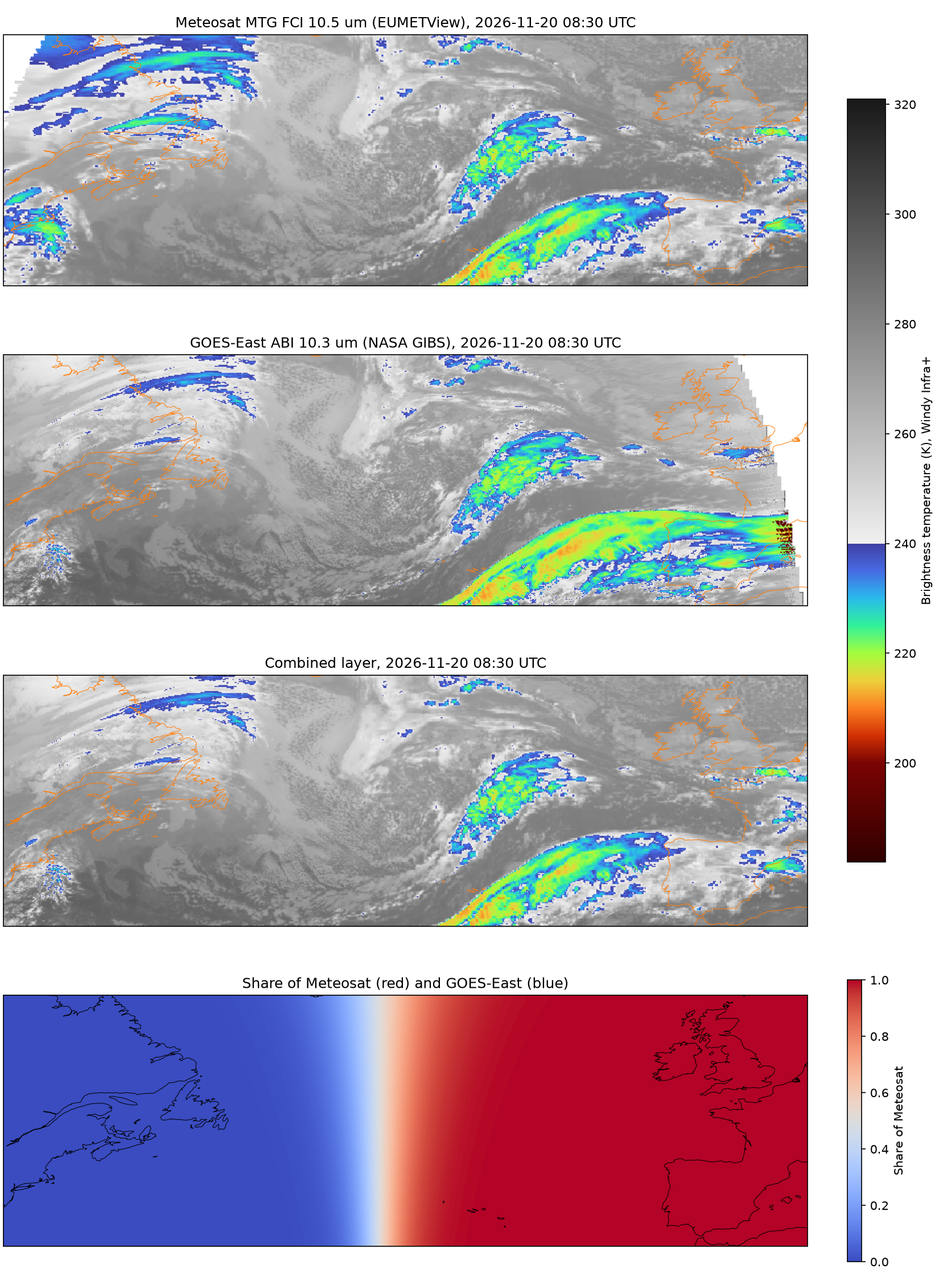
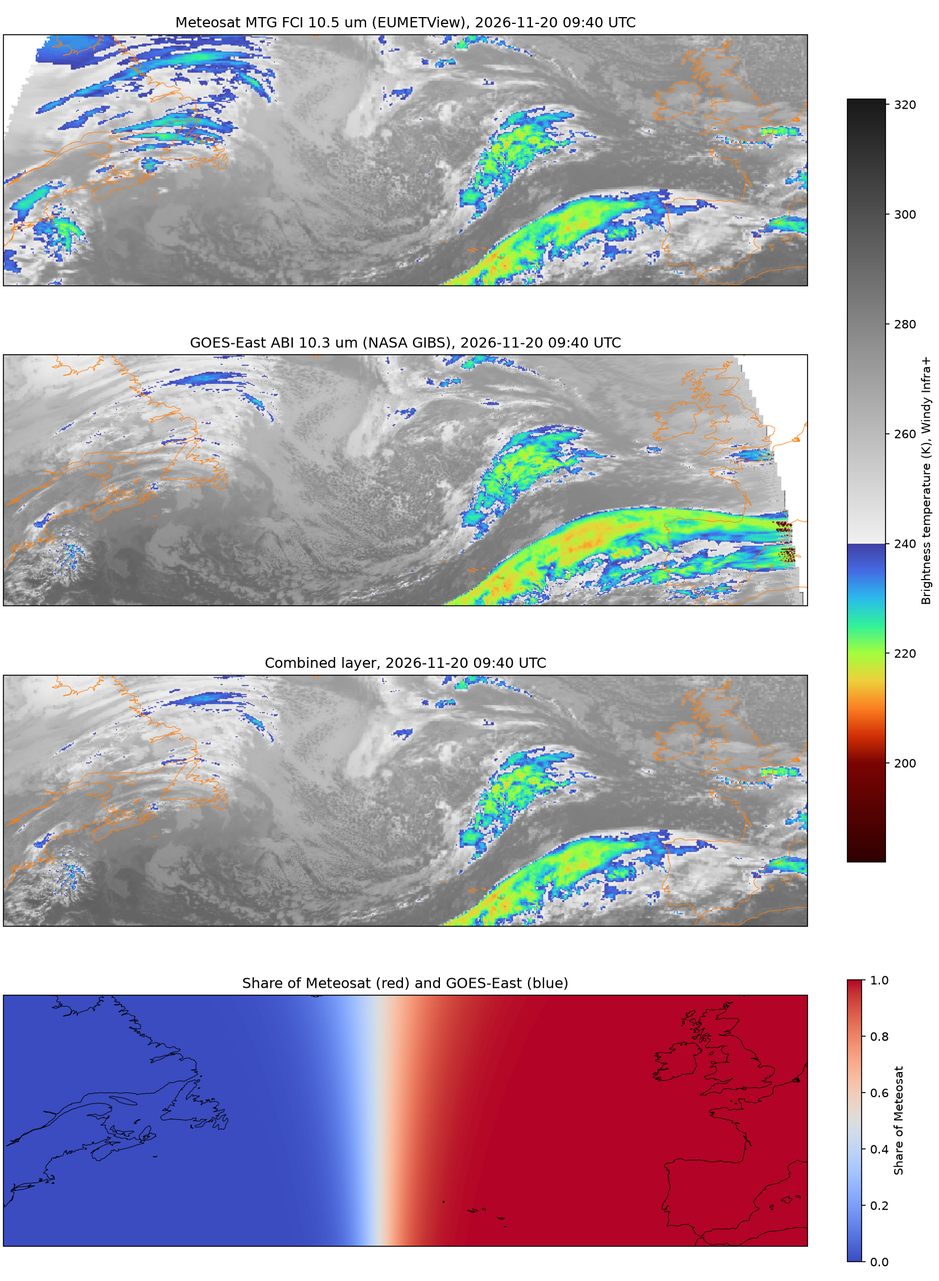
Add limb correction option

diff --git a/architeuthis/satellite.py b/architeuthis/satellite.py
@@ -43,7 +43,7 @@ from architeuthis.common import ArchiteuthisSpatialData, Datetime, _HOME, status
 from architeuthis.copernicus import CopernicusMarineData
 from architeuthis.credentials import require_credentials
 from architeuthis.toolbox import image_utils, wms_utils
-from architeuthis.toolbox.geo_utils import central_angle
+from architeuthis.toolbox.geo_utils import central_angle, geostationary_zenith
 from architeuthis.toolbox.image_utils import values_to_rgba
 from architeuthis.toolbox.windy_colormaps import get_satellite_cmap
 
@@ -659,6 +659,21 @@ SUBSATELLITE_LONGITUDES = {
 # band along the seam where their levels are matched
 MATCH_WEIGHT = 0.05
 
+# Limb cooling of the infrared: a satellite that sees a place obliquely
+# looks through more atmosphere, and at the sides of the clouds, so it
+# reads it colder, LIMB_COOLING * (zenith / 90)**LIMB_EXPONENT in K.
+# Fitted on 2026-11-19 and 20, 6 times by day and night, comparing
+# quantiles of Meteosat MTG FCI 10.5 um and GOES-East ABI 10.3 um in
+# boxes of 2 x 5 deg over 75 W - 5 E, 35 - 60 N at 0.1 deg: their
+# difference, up to 15 K, is 1.0 K + cooling of one - cooling of the
+# other, with one law for both (16.8 and 19.8 K fitted apart). Residual
+# 4.1 K rather than 9.2 K; 4.5 K rather than 9.7 K at 4 other times. A
+# dependence on the temperature fits a little better but corrects cold
+# tops the most, up to 15 K at 60 deg: their larger extent seen from the
+# side, not a cooling, so it is left out. Parallax is not corrected.
+LIMB_COOLING = 18.4  # K, at a zenith angle of 90 deg
+LIMB_EXPONENT = 4
+
 # Images requested at once from a map server
 DOWNLOAD_WORKERS = 4
 
@@ -710,6 +725,28 @@ def native_layers(
             raise ValueError(f"No {channel} layer at {choice}: choose among {['finest', 'coarsest'] + names}.")
         chosen[channel] = options[choice]
     return chosen
+
+
+def limb_cooling(zenith) -> np.ndarray:
+    """
+    Cooling of infrared brightness temperatures seen obliquely.
+
+    Empirical (`LIMB_COOLING`, `LIMB_EXPONENT`): about 2 K at a zenith
+    angle of 50 deg, 4 K at 60, 7 K at 70, 12 K at 80, 18 K at 90. Add
+    it to estimate what the satellite would read straight above.
+
+    Args:
+        zenith: Zenith angles of the satellite, in degrees
+            (`geo_utils.geostationary_zenith`).
+
+    Returns:
+        The cooling, in K.
+
+    Example:
+        bt + limb_cooling(geostationary_zenith(lat, lon, -75.2))
+    """
+    zenith = np.clip(np.asarray(zenith, dtype=float), 0.0, 90.0)
+    return LIMB_COOLING * (zenith / 90.0) ** LIMB_EXPONENT
 
 
 def imagery_channels(channels: Union[str, Sequence[str]]) -> list[str]:
@@ -998,6 +1035,9 @@ class WMSImageryData(SatelliteImagery):
             to guess it from the server layer names
             (`SUBSATELLITE_LONGITUDES`).
         style: Style of the server layers, "" for their default.
+        limb_correction: Add to the infrared the cooling of an oblique
+            view (`limb_cooling`), to estimate what the satellite would
+            read straight above; needs the longitude of the satellite.
         verbose: Whether to report progress.
     """
 
@@ -1018,6 +1058,7 @@ class WMSImageryData(SatelliteImagery):
         palettes: Optional[dict] = None,
         subsatellite_lon: Optional[float] = None,
         style: str = "",
+        limb_correction: bool = False,
         verbose: bool = True,
     ):
         super().__init__(name, start, end, min_lon, max_lon, min_lat, max_lat, resolution, channels, verbose)
@@ -1040,6 +1081,9 @@ class WMSImageryData(SatelliteImagery):
                 None,
             )
         self.subsatellite_lon = subsatellite_lon
+        if limb_correction and subsatellite_lon is None:
+            raise ValueError(f"{name}: the limb correction needs the longitude of the satellite (subsatellite_lon).")
+        self.limb_correction = limb_correction
         self.output_path = os.path.join(_HOME, "wms", urlparse(url).hostname or "server")
         self.workers = DOWNLOAD_WORKERS
 
@@ -1321,6 +1365,9 @@ class WMSImageryData(SatelliteImagery):
             values = np.empty(pixels.shape[:-1], dtype=np.float32)
             for step, frame in enumerate(pixels):
                 values[step] = image_utils.invert_palette(frame, *palette, secondary=self.secondary[channel])
+            if channel == "ir" and self.limb_correction:
+                lat, lon = np.meshgrid(self.data["latitude"].values, self.data["longitude"].values, indexing="ij")
+                values += limb_cooling(geostationary_zenith(lat, lon, self.subsatellite_lon)).astype(np.float32)
             self.data[IMAGERY_CHANNELS[channel]] = (("valid_time", "latitude", "longitude"), values)
 
 
@@ -1359,6 +1406,8 @@ class EUMETViewData(WMSImageryData):
             one per channel (`native_layers`).
         wms_layers: Server layer of each channel, overriding the
             native resolution, None for none.
+        limb_correction: Add to the infrared the cooling of an oblique
+            view (`limb_cooling`).
         verbose: Whether to report progress.
 
     Example:
@@ -1381,6 +1430,7 @@ class EUMETViewData(WMSImageryData):
         channels: Union[str, Sequence[str]] = "ir",
         native_resolution: Union[str, dict] = "finest",
         wms_layers: Optional[dict] = None,
+        limb_correction: bool = False,
         verbose: bool = True,
     ):
         wms_layers = native_layers(EUMETVIEW_LAYERS, native_resolution) | (wms_layers or {})
@@ -1390,7 +1440,9 @@ class EUMETViewData(WMSImageryData):
         }
         super().__init__(
             name, EUMETVIEW_URL, wms_layers, start, end, min_lon, max_lon, min_lat, max_lat,
-            resolution, time_step, channels, palettes, verbose=verbose,
+            resolution, time_step, channels, palettes,
+            limb_correction=limb_correction,
+            verbose=verbose,
         )
 
 
@@ -1436,6 +1488,8 @@ class GIBSData(WMSImageryData):
         wms_layers: Server layer of each channel, overriding the
             native resolution, None for none; GOES-West or Himawari
             for example.
+        limb_correction: Add to the infrared the cooling of an oblique
+            view (`limb_cooling`).
         verbose: Whether to report progress.
     """
 
@@ -1453,13 +1507,16 @@ class GIBSData(WMSImageryData):
         channels: Union[str, Sequence[str]] = "ir",
         native_resolution: Union[str, dict] = "finest",
         wms_layers: Optional[dict] = None,
+        limb_correction: bool = False,
         verbose: bool = True,
     ):
         wms_layers = native_layers(GIBS_LAYERS, native_resolution) | (wms_layers or {})
         palettes = {"visible": image_utils.linear_gray_palette(0.0, 1.0 / 255.0)}
         super().__init__(
             name, GIBS_URL, wms_layers, start, end, min_lon, max_lon, min_lat, max_lat,
-            resolution, time_step, channels, palettes, verbose=verbose,
+            resolution, time_step, channels, palettes,
+            limb_correction=limb_correction,
+            verbose=verbose,
         )
 
     def _time_extent(self, channel: str) -> list[str]:
@@ -1531,7 +1588,10 @@ class GeostationaryImagery(SatelliteImagery):
     at 0 deg) and GOES-East (GIBS, at 75.2 W) cover the North Atlantic
     from the Americas to Europe, every 10 min.
 
-    Infrared images agree as they are, in K. Visible ones do not: the
+    Infrared images agree in K, within about 1 K where both satellites
+    see at the same angle; each reads colder towards its limb, up to
+    15 K over the North Atlantic, which `limb_correction` makes up for.
+    Visible ones do not agree: the
     brightness of a scene depends on the angles of the sun and of the
     satellite, so each image of the other sources is put on the levels
     of the first one along the seam (`match`,
@@ -1572,6 +1632,8 @@ class GeostationaryImagery(SatelliteImagery):
             image misses a part; else the times any source has.
         match: Match the levels of the sources along the seam, None for
             the visible only.
+        limb_correction: Add to the infrared of the default sources the
+            cooling of an oblique view (`limb_cooling`).
         verbose: Whether to report progress.
 
     Example:
@@ -1599,6 +1661,7 @@ class GeostationaryImagery(SatelliteImagery):
         seam_width: float = 2.0,
         complete: bool = True,
         match: Optional[bool] = None,
+        limb_correction: bool = False,
         verbose: bool = True,
     ):
         super().__init__(name, start, end, min_lon, max_lon, min_lat, max_lat, resolution, channels, verbose)
@@ -1608,6 +1671,7 @@ class GeostationaryImagery(SatelliteImagery):
                 start=start, end=end, min_lon=min_lon, max_lon=max_lon, min_lat=min_lat,
                 max_lat=max_lat, resolution=resolution, time_step=time_step, channels=self.channels,
                 native_resolution=native_resolution,
+                limb_correction=limb_correction,
                 verbose=verbose,
             )
             sources = [EUMETViewData(f"{name}_eumetview", **common), GIBSData(f"{name}_gibs", **common)]

diff --git a/tests/domain/test_satellite.py b/tests/domain/test_satellite.py
@@ -29,11 +29,13 @@ from architeuthis.satellite import (
     GIBSData,
     IMAGERY_CHANNELS,
     IMAGERY_COLORMAPS,
+    LIMB_COOLING,
+    limb_cooling,
     native_layers,
     WMSImageryData,
 )
 from architeuthis.toolbox import image_utils, wms_utils
-from architeuthis.toolbox.geo_utils import central_angle
+from architeuthis.toolbox.geo_utils import central_angle, geostationary_zenith
 from architeuthis.toolbox.windy_colormaps import SATELLITE_QUANTITIES, SATELLITE_STOPS, get_satellite_cmap
 
 DOMAIN = dict(min_lon=-20.0, max_lon=0.0, min_lat=40.0, max_lat=52.0)
@@ -492,6 +494,48 @@ def test_central_angle_from_the_sub_satellite_point():
     assert central_angle(90.0, 30.0, 0.0, 0.0) == pytest.approx(90.0)
 
 
+def test_zenith_angle_of_a_geostationary_satellite():
+    assert geostationary_zenith(0.0, -75.2, -75.2) == pytest.approx(0.0)
+    # Larger than the central angle, 90 deg at the limb of the disk
+    assert geostationary_zenith(47.0, -56.0, -75.2) == pytest.approx(57.2, abs=0.1)
+    assert geostationary_zenith(0.0, 81.3, 0.0) == pytest.approx(90.0, abs=0.01)
+    assert geostationary_zenith(0.0, 120.0, 0.0) > 90.0
+
+
+def test_limb_cooling_grows_towards_the_limb():
+    cooling = limb_cooling([0.0, 50.0, 60.0, 70.0, 80.0, 90.0, 100.0])
+
+    assert cooling[0] == 0.0 and cooling[-2] == pytest.approx(LIMB_COOLING)
+    assert np.all(np.diff(cooling) >= 0.0)
+    assert cooling[-1] == cooling[-2]  # beyond the limb, not more
+    np.testing.assert_allclose(cooling[1:5], [1.75, 3.63, 6.73, 11.49], atol=0.01)
+
+
+def test_the_limb_correction_warms_the_infrared_by_the_zenith_angle(eumetview):
+    eumetview.load_data()
+    corrected = EUMETViewData(
+        "corrected", verbose=False, channels=["ir", "visible"], limb_correction=True, **IMAGERY_PERIOD, **IMAGERY_DOMAIN,
+    )
+    corrected.output_path = eumetview.output_path
+    corrected.load_data()
+
+    times = corrected.data["valid_time"]
+    lat, lon = np.meshgrid(corrected.data["latitude"], corrected.data["longitude"], indexing="ij")
+    cooling = limb_cooling(geostationary_zenith(lat, lon, 0.0))
+    assert cooling.min() > 1.0  # 40-45 N
+    np.testing.assert_allclose(
+        corrected.data["bt"].values, eumetview.data["bt"].sel(valid_time=times).values + cooling, rtol=1e-6,
+    )
+    # The visible is left as it is
+    np.testing.assert_allclose(corrected.data["brightness"].values, 51 / 255, rtol=1e-6)
+
+
+def test_the_limb_correction_needs_the_satellite():
+    with pytest.raises(ValueError, match="subsatellite_lon"):
+        WMSImageryData("server", "https://server", {"ir": "infrared"}, limb_correction=True)
+    assert WMSImageryData("server", "https://server", {"ir": "infrared"}, subsatellite_lon=0.0, limb_correction=True).limb_correction
+
+
 # ------------------------------------------------------------------------------
 # Geostationary imagery: sources
 # ------------------------------------------------------------------------------
@@ -841,6 +885,9 @@ def test_the_composite_raises_when_every_source_fails():
 
 def test_the_default_sources_are_eumetview_and_gibs_over_the_same_domain_and_channels():
     clouds = GeostationaryImagery("clouds", time_step="1h", channels=["ir", "visible"], **IMAGERY_PERIOD, **COMPOSITE_DOMAIN)
+    assert [source.limb_correction for source in clouds.sources] == [False, False]
+    corrected = GeostationaryImagery("clouds", limb_correction=True, **IMAGERY_PERIOD, **COMPOSITE_DOMAIN)
+    assert [source.limb_correction for source in corrected.sources] == [True, True]
 
     assert [type(source) for source in clouds.sources] == [EUMETViewData, GIBSData]
     assert clouds.channels == ["ir", "visible"]

diff --git a/examples/cloud_imagery.py b/examples/cloud_imagery.py
@@ -81,6 +81,10 @@ resolution = 0.1  # deg, about 10 km: 800 x 250 pixels here, under 1 s an image
 native_resolution = "finest"  # server layers: MTG FCI on EUMETView (1 km IR, 0.5 km visible)
 # native_resolution = "coarsest"  # MSG SEVIRI on EUMETView (3 km, every 15 min); GIBS has one layer per channel
 time_step = None  # every image; "30min" or "1h" for fewer
+# Each satellite reads colder towards the limb of its disk, up to 15 K here:
+# the infrared corrected as if seen from straight above, so both agree
+limb_correction = True
+# limb_correction = False  # the brightness temperatures as measured
 clear_sky = 275.0  # K: warmer pixels fade out of the cloud layer
 
 # A zoom on Saint-Pierre-et-Miquelon and the south of Newfoundland, at the
@@ -94,7 +98,7 @@ zoom_scale = 4  # each pixel drawn as 4 x 4 interpolated ones
 
 clouds = GeostationaryImagery(
     "clouds", start, end, resolution=resolution, time_step=time_step, channels="ir",
-    native_resolution=native_resolution, **domain,
+    native_resolution=native_resolution, limb_correction=limb_correction, **domain,
 )
 # clouds = GeostationaryImagery("clouds", start, end, resolution=resolution, complete=False, **domain)  # every time of either satellite
 clouds.load_data()
@@ -120,7 +124,7 @@ print(
 
 daylight = GeostationaryImagery(
     "daylight", visible_start, visible_end, resolution=resolution, time_step=time_step,
-    channels=["ir", "visible"], native_resolution=native_resolution, **domain,
+    channels=["ir", "visible"], native_resolution=native_resolution, limb_correction=limb_correction, **domain,
 )
 # daylight = GeostationaryImagery("daylight", visible_start, visible_end, channels="visible", **domain)  # the visible only
 daylight.load_data()
@@ -194,7 +198,8 @@ fig.savefig("cloud_imagery_colormaps.png", dpi=150)
 
 zoom = GeostationaryImagery(
     "zoom", visible_start, visible_end, resolution=zoom_resolution, time_step="1h",
-    channels=["ir", "visible"], native_resolution=native_resolution, **zoom_domain,
+    channels=["ir", "visible"], native_resolution=native_resolution, limb_correction=limb_correction,
+    **zoom_domain,
 )
 zoom.load_data()
 

diff --git a/architeuthis/toolbox/geo_utils.py b/architeuthis/toolbox/geo_utils.py
@@ -594,6 +594,33 @@ def central_angle(lat, lon, lat0, lon0):
     return np.degrees(np.arccos(np.clip(cosine, -1.0, 1.0)))
 
 
+# Radius of the Earth over that of the geostationary orbit
+GEOSTATIONARY_RATIO = 6378.137 / 42164.0
+
+
+def geostationary_zenith(lat, lon, subsatellite_lon):
+    """
+    Zenith angle of a geostationary satellite seen from positions.
+
+    Numeric. 0 straight above, 90 on the horizon, the limb of its disk
+    (81 deg from its sub-satellite point); larger than `central_angle`,
+    by up to 9 deg.
+
+    Args:
+        lat: Latitudes, in degrees.
+        lon: Longitudes, in degrees.
+        subsatellite_lon: Longitude of the satellite, in degrees.
+
+    Returns:
+        The angles, in degrees, above 90 where it cannot be seen.
+
+    Example:
+        geostationary_zenith(47.0, -56.0, -75.2)  # about 57 deg
+    """
+    angle = np.radians(central_angle(lat, lon, 0.0, subsatellite_lon))
+    return np.degrees(np.arctan2(np.sin(angle), np.cos(angle) - GEOSTATIONARY_RATIO))
+
+
 def lonlat_to_web_mercator(lon, lat):
     """
     Convert lon/lat in degrees to Web Mercator (EPSG:3857).

diff --git a/docs/user_guide.md b/docs/user_guide.md
@@ -57,7 +57,7 @@ for key in ("bhp", "max_bhp", "sails_contribution"):
 | `forecast.CopernicusForecast` | Currents and other products of Copernicus Marine. Needs an account, `CMEMS_USER` and `CMEMS_PWD`. |
 | `forecast.CDSForecast` | ERA5 reanalysis. Needs an account, `CDS_API_KEY`. |
 | `satellite.ASCATData` | ASCAT winds over a period and a box, to validate forecasts: from EUMETSAT (`EUMDAC_KEY`, `EUMDAC_SECRET`), the latest swaths, else from Copernicus Marine (`CMEMS_USER`, `CMEMS_PWD`), daily gridded swaths about a day behind. `sources="cmems"` uses Copernicus Marine only, and `source` tells which one was used. The variables are the same either way: `lat`, `lon`, `time`, `valid_time`, `wind_speed` in m/s and `wind_dir`, where the wind goes to, in degrees. `EUMETSATASCATData` and `CopernicusASCATData` are the two sources. |
-| `satellite.GeostationaryImagery` | Cloud images over a box and a period, every 10 min, as one continuous layer from Meteosat (`EUMETViewData`) and GOES-East (`GIBSData`). No account. The channels are chosen as the variables of a forecast, `channels="ir"` (default) or a list of `"ir"` (infrared, day and night) and `"visible"` (by day). `data` then holds `bt`, the brightness temperature in K, for `"ir"`, and `brightness`, from 0 to 1, for `"visible"`, the levels of GOES matched to those of Meteosat along the seam; on `valid_time`, `latitude`, `longitude`, at `resolution` degrees. `resolution` sets the size of the requested images, hence the download time: 0.05 over the North Atlantic (1600 x 500 pixels) takes about a second an image, four at a time; 0.02 shows all the detail of the infrared and 0.01 of the visible (`DETAIL_RESOLUTIONS`), best on a small domain. `native_resolution` chooses the server layer where a server has several: `"finest"` (default), `"coarsest"`, a resolution such as `"3km"` (MSG SEVIRI rather than MTG FCI on EUMETView), or one per channel, `{"ir": "3km"}`. How they look is chosen when drawing: `image(time, "ir", colormap="blue")` draws a loaded channel as an RGBA array, north up, with a colour scale of Windy, `"infra"` (Infra+, the default of `"ir"`) or `"blue"` (Blue, clear sky transparent) for `"ir"` and `"visible"` for `"visible"`; `transparent_above=275` fades out the clear sky of any scale. `image(time, box=(-60, -52, 44, 49), scale=4)` draws a part of the domain with each pixel interpolated into 4 x 4 (`order=1` bilinear, the default, `order=3` bicubic), the values interpolated before being coloured, and `extent(box)` gives where it lies, `[west, east, south, north]` for `imshow`. `toolbox.windy_colormaps.get_satellite_cmap(colormap)` gives the colormap and norm for a colour bar, and `bounds` the corners for a map overlay. `complete=False` keeps the times of any satellite rather than those of all. `EUMETViewData` and `GIBSData` take the same `channels` for one satellite each; `GIBSData(wms_layers={"ir": ...})` takes GOES-West or Himawari. Files are managed as those of the forecasts: nothing on disk is downloaded again. Each image is a PNG in `~/data/wms/<host>/<layer>/<box>/`, opened rather than downloaded when it is there; the times a server listed for a layer, and the periods they cover, are kept in `<layer>/times.json`, so that loading a period again asks the server nothing (💾 statuses). An image still empty `satellite.EMPTY_FINAL_AFTER` (3 h) after its time is recorded there and not asked again, whereas a more recent one may not be produced yet and is asked again by a later run. If a server cannot be reached, the images of the period on disk are used, with a ⚠ status. The GIBS colormaps are kept in `<host>/colormaps/`. |
+| `satellite.GeostationaryImagery` | Cloud images over a box and a period, every 10 min, as one continuous layer from Meteosat (`EUMETViewData`) and GOES-East (`GIBSData`). No account. The channels are chosen as the variables of a forecast, `channels="ir"` (default) or a list of `"ir"` (infrared, day and night) and `"visible"` (by day). `data` then holds `bt`, the brightness temperature in K, for `"ir"`, and `brightness`, from 0 to 1, for `"visible"`, the levels of GOES matched to those of Meteosat along the seam; on `valid_time`, `latitude`, `longitude`, at `resolution` degrees. `resolution` sets the size of the requested images, hence the download time: 0.05 over the North Atlantic (1600 x 500 pixels) takes about a second an image, four at a time; 0.02 shows all the detail of the infrared and 0.01 of the visible (`DETAIL_RESOLUTIONS`), best on a small domain. `native_resolution` chooses the server layer where a server has several: `"finest"` (default), `"coarsest"`, a resolution such as `"3km"` (MSG SEVIRI rather than MTG FCI on EUMETView), or one per channel, `{"ir": "3km"}`. How they look is chosen when drawing: `image(time, "ir", colormap="blue")` draws a loaded channel as an RGBA array, north up, with a colour scale of Windy, `"infra"` (Infra+, the default of `"ir"`) or `"blue"` (Blue, clear sky transparent) for `"ir"` and `"visible"` for `"visible"`; `transparent_above=275` fades out the clear sky of any scale. `image(time, box=(-60, -52, 44, 49), scale=4)` draws a part of the domain with each pixel interpolated into 4 x 4 (`order=1` bilinear, the default, `order=3` bicubic), the values interpolated before being coloured, and `extent(box)` gives where it lies, `[west, east, south, north]` for `imshow`. `toolbox.windy_colormaps.get_satellite_cmap(colormap)` gives the colormap and norm for a colour bar, and `bounds` the corners for a map overlay. `complete=False` keeps the times of any satellite rather than those of all. `EUMETViewData` and `GIBSData` take the same `channels` for one satellite each; `GIBSData(wms_layers={"ir": ...})` takes GOES-West or Himawari. Each satellite reads the infrared colder towards the limb of its disk, by about 2 K at a zenith angle of 50 deg, 7 K at 70 and 12 K at 80: `limb_correction=True` adds `satellite.limb_cooling(zenith)` to estimate what it would read straight above, so that Meteosat and GOES-East agree within about 3 K across the North Atlantic (off by default; the combined layer takes each pixel from the more direct view anyway). Files are managed as those of the forecasts: nothing on disk is downloaded again. Each image is a PNG in `~/data/wms/<host>/<layer>/<box>/`, opened rather than downloaded when it is there; the times a server listed for a layer, and the periods they cover, are kept in `<layer>/times.json`, so that loading a period again asks the server nothing (💾 statuses). An image still empty `satellite.EMPTY_FINAL_AFTER` (3 h) after its time is recorded there and not asked again, whereas a more recent one may not be produced yet and is asked again by a later run. If a server cannot be reached, the images of the period on disk are used, with a ⚠ status. The GIBS colormaps are kept in `<host>/colormaps/`. |
 | `forecast.Topography` | The signed distance to land and to your exclusion zones. It needs only its box, and `exclusion_zones` if you have some. |
 | `vessel.Vessel` | A vessel, from its polar file, from functions (see [Polars as functions](#polars-as-functions)) or from constants. The routing only needs its consumption (see [Consumption](#consumption)). `label` comes from the file name by default, `eff45` for `..._eff45.nc`, or is the name without a file. |
 

diff --git a/CLAUDE.md b/CLAUDE.md
@@ -200,7 +200,7 @@ Speeds in knots, distances in nautical miles, angles in degrees, time in float e
 - `EUMDAC_KEY` and `EUMDAC_SECRET` hold the EUMETSAT Consumer Key and Secret, not a login. When neither CMEMS credential is found, `CopernicusForecast` passes `None` to the toolbox only if the `copernicusmarine login` file exists (`COPERNICUSMARINE_CREDENTIALS_DIRECTORY` or `~/.copernicusmarine/`), else it raises; likewise `CDSForecast` falls back to `cdsapi.Client()` only if `CDSAPI_RC` or `~/.cdsapirc` exists. Architeuthis never writes `~/.cdsapirc` any more. Without a credential store (Linux server), `keyring` errors are treated as "not found", so environment variables still work.
 - `copernicusmarine` takes naive dates as **local** times, not UTC. `CopernicusSatelliteData` passes UTC-aware timestamps; `CopernicusForecast` passes `date` and `end` as given. Its `"strict-inside"` selection refuses a period past the end of a dataset, so satellite data uses `"inside"`, which clips. Importing `copernicusmarine` takes about 3 s, which is why `architeuthis/copernicus.py` exists rather than this code living in `common.py`; mock it with `patch("architeuthis.copernicus.copernicusmarine.subset")`.
 - `ASCATData` is not an `EUMETSATData`: it builds an `EUMETSATASCATData` or a `CopernicusASCATData` per source in `load_data` and keeps the data of the first that loads, catching any exception of the others. ASCAT `wind_dir` is where the wind goes, unlike the meteorological convention of the models.
-- Imagery servers send rendered PNGs, which `WMSImageryData` turns back into brightness temperatures (`bt`, K) with the palette of the layer. EUMETView's grey ramp is calibrated in `EUMETVIEW_CALIBRATIONS`, fitted once against FCI L1c data (SEVIRI against that FCI); another layer needs its own fit. The GIBS IR colormap draws 195-203 K in the greys of 261-328 K: `GIBSData.secondary["ir"]` marks those entries and `image_utils.invert_palette` reads such pixels from their neighbours (`tolerance` 3, a wider one makes most mid-grey sea ambiguous and turns it cold). A grey nearer a secondary entry than any main one is also weighed by its neighbours, in a window 4 times wider when the first holds no unambiguous pixel: GIBS's grey 155 is exactly a 196.5 K entry between 270.8 K and 270.3 K, and read alone it drew cold streaks across warm sea. `uniform_filter` gives about 1e-16 rather than 0 for an empty window, so test counts against half a pixel. Past about 70 deg from GOES-East (east of 5 W), GIBS reads cold; `GeostationaryImagery` gives Meteosat all the weight there.
+- Imagery servers send rendered PNGs, which `WMSImageryData` turns back into brightness temperatures (`bt`, K) with the palette of the layer. EUMETView's grey ramp is calibrated in `EUMETVIEW_CALIBRATIONS`, fitted once against FCI L1c data (SEVIRI against that FCI); another layer needs its own fit. The GIBS IR colormap draws 195-203 K in the greys of 261-328 K: `GIBSData.secondary["ir"]` marks those entries and `image_utils.invert_palette` reads such pixels from their neighbours (`tolerance` 3, a wider one makes most mid-grey sea ambiguous and turns it cold). A grey nearer a secondary entry than any main one is also weighed by its neighbours, in a window 4 times wider when the first holds no unambiguous pixel: GIBS's grey 155 is exactly a 196.5 K entry between 270.8 K and 270.3 K, and read alone it drew cold streaks across warm sea. `uniform_filter` gives about 1e-16 rather than 0 for an empty window, so test counts against half a pixel. Past about 70 deg from GOES-East (east of 5 W), GIBS reads cold; `GeostationaryImagery` gives Meteosat all the weight there. Both palettes are right: where both satellites see at the same zenith angle they agree within 1-2 K at any temperature (GOES 10.3 um about 1 K warmer). The east-west differences, up to 15 K, are limb cooling, symmetric for both: `limb_correction` adds `limb_cooling`, fitted on their overlap (`LIMB_COOLING`), and leaves parallax and the visible alone. A temperature-dependent law fits better but over-corrects cold tops (their side seen near the limb), and about 12 % of GIBS pixels blend colours off its palette (interpolated rendering, even in its native tiles): reading them between two palette entries was tried and was no better.
 - The WMS capabilities of GIBS may lag by an hour or more, depending on the server answering: `GIBSData` takes its times from DescribeDomains (`wms_utils.gibs_time_domain`), falling back on the capabilities. An entirely transparent image (not produced yet) is left out with a ⚠ status and not cached. GIBS is about an hour behind EUMETView, so `GeostationaryImagery` (all sources' times by default) ends about an hour ago. Imagery files are never downloaded twice: `WMSImageryData._times` answers a period inside a `covered` interval of `<layer>/times.json` without asking the server, records after each answer the period up to the last time listed (later times may still come), and offline falls back on the PNGs on disk (`RequestException` only). An empty image is not cached; past `EMPTY_FINAL_AFTER` it is recorded under `empty` for its box and left out by `_locate_data`.
 - Visible imagery has no published calibration on either server: both are read as grey level / 255 (`brightness`), and their relation changes through the day with the sun and viewing angles (GOES-to-Meteosat factor 0.74 at 11 UTC, 0.93 at 13 UTC on 2026-11-19), so `GeostationaryImagery` matches them per image along the seam (`match`, on for the visible only) rather than with a constant. A night image (reference spread under 0.02) is not matched. `windy_colormaps.SATELLITE_STOPS["infra"]` reproduces Windy's Infra+ legend; "blue" is Windy's Blue estimated by eye, whose definition is not published, and carries its own alpha (clear sky transparent above 290 K), which `values_to_rgba` keeps.
 - Imagery channels (`IMAGERY_CHANNELS`) are what is downloaded: each maps to one server layer per source (`wms_layers`) and one quantity in `data`. Colour scales are a drawing option, never a channel: they live in `windy_colormaps` (`SATELLITE_STOPS`, with the quantity each draws in `SATELLITE_QUANTITIES`), and `image(time, channel, colormap=...)` refuses a scale of another quantity; `IMAGERY_COLORMAPS` gives each channel its default. Only "ir" and "visible" exist on both EUMETView and GIBS (water vapour on MSG only, the rest colour composites). A source with several channels keeps the times every channel has, and stores its pixels as `rgba_<channel>` in `output_path/<server layer>/<box>/`. Two resolutions are distinct: `resolution` is the grid, which sets the size of the requested images and so the download time (the reason to use these servers is speed), and `native_resolution` picks among the server layers of a channel (`EUMETVIEW_LAYERS`, `GIBS_LAYERS`, by native resolution, finest first), which barely changes the time. Images are fetched `DOWNLOAD_WORKERS` at a time, in tiles above `wms_utils.MAX_SIZE`, converted and composited image by image to keep the memory low; `image(scale=...)` smooths for display. `GeostationaryImagery.data["gain"]` and `["offset"]` are on (channel, source, valid_time).

diff --git a/CHANGELOG.md b/CHANGELOG.md
@@ -191,6 +191,7 @@ and this project follows Semantic Versioning https://semver.org
 - Geostationary cloud imagery, without account, whose channels are chosen as the variables of a forecast, with `channels` (`satellite.IMAGERY_CHANNELS`): `"ir"` (infrared, day and night) and `"visible"` (by day), the only single channels that both servers give. `satellite.EUMETViewData` (Meteosat from EUMETView: MTG FCI HRFI IR 10.5 um at 1 km and VIS 0.6 um at 0.5 km, or MSG SEVIRI at 3 km) and `satellite.GIBSData` (GOES-East ABI bands 13 and 2 from NASA GIBS, or GOES-West and Himawari layers through `wms_layers`), both `WMSImageryData`, download the server layer of each channel over a box, a period and a resolution, every 10 min, at the times every channel has, cached in `~/data/wms/`. `native_resolution` chooses the server layer where a server has several for a channel (`"finest"` by default, `"coarsest"`, `"3km"`..., or one per channel, `satellite.native_layers`); `resolution` sets the size of the requested images, hence the download time (about 1 s an image of 1600 x 500 pixels, four at a time); `DETAIL_RESOLUTIONS` gives the grid that shows all the detail of the finest layers. Images larger than `wms_utils.MAX_SIZE` (4096 pixels) are requested in tiles that join on the pixel grid (`wms_utils.get_map_array`). Their colours are turned back into a common scale: brightness temperatures (`bt`, in K) for the infrared, with a calibrated grey ramp for EUMETView and the published colormap for GIBS, both agreeing within 1.6 K (median) over the Atlantic; a brightness from 0 to 1 (`brightness`) for the visible.
 - `satellite.GeostationaryImagery` joins several of them into one continuous layer: each pixel from the satellite that sees it the most directly, blended over a few degrees along the seam, a failing source left out with a ⚠ status. In the visible, where the brightness of a scene depends on the angles of the sun and the satellite, the levels of the other sources are matched to the first along the seam, image by image (`gain`, `offset`). `image(time, channel, colormap=...)` draws a channel with a colour scale of Windy chosen when drawing, by default that of the channel (`IMAGERY_COLORMAPS`), clear sky or dark sea optionally transparent, ready for a map layer; `bounds` gives its corners. `image(box=..., scale=4)` draws a part of the domain with each pixel interpolated into 4 x 4 (`image_utils.rescale`, bilinear by default, `order=3` bicubic): the values are interpolated before being coloured, so the steps of a colour scale stay sharp; `extent(box)` places it.
 - Satellite imagery: files are managed as those of the forecasts: nothing on disk is downloaded again. Each image is a PNG in `~/data/wms/<host>/<layer>/<box>/`, opened rather than downloaded when it is there; the times a server listed for a layer, and the periods they cover, are kept in `<layer>/times.json`, so that loading a period again asks the server nothing (💾 statuses). An image still empty `satellite.EMPTY_FINAL_AFTER` (3 h) after its time is recorded there and not asked again, whereas a more recent one may not be produced yet and is asked again by a later run. If a server cannot be reached, the images of the period on disk are used, with a ⚠ status. The GIBS colormaps are kept in `<host>/colormaps/`.
+- Infrared limb correction: each geostationary satellite reads colder towards the limb of its disk (more atmosphere, the sides of the clouds), Meteosat in the west of the North Atlantic and GOES-East in the east, up to 15 K from each other. `limb_correction=True` (`EUMETViewData`, `GIBSData`, `GeostationaryImagery`, off by default) adds `satellite.limb_cooling(zenith)`, `LIMB_COOLING` (18.4 K) times (zenith / 90)^4, one law for both satellites fitted on their overlap: they then agree within about 3 K over 75 W - 5 E. `geo_utils.geostationary_zenith` gives the zenith angle of the satellite. `examples/cloud_imagery.py` uses it.
 - `toolbox.windy_colormaps.get_satellite_cmap(name, quantity=None)`, beside the wind and wave colormaps, gives the colormap and norm of each satellite colour scale (`SATELLITE_STOPS`, the quantity each draws in `SATELLITE_QUANTITIES`): for the brightness temperature, `"infra"` the legend of Windy's Infra+ (grey to white at 240 K, then coloured cloud tops from blue to dark red at 182 K) and `"blue"` Windy's Blue as estimated by eye (clear sky transparent at 290 K, translucent white at 270 K, opaque white at 250 K, darker to dark grey at 190 K); for the brightness, `"visible"` black to white. `image_utils.values_to_rgba` keeps the alpha of a colormap.
 - `toolbox.wms_utils`: WMS requests (capabilities, time extent and times of a layer, maps), the times of a GIBS layer from DescribeDomains and the GIBS colormaps. `toolbox.image_utils`: PNG decoding and encoding, palette inversion (including palettes that repeat colours), smooth resizing that keeps NaN in place, values drawn on a colour scale, matching of levels by quantiles, smooth blending weights and blending, animated GIFs. `toolbox.geo_utils.central_angle`.
 - `examples/cloud_imagery.py` loads the last hours of infrared and the visible around the latest midday over the North Atlantic, checks both satellites on their overlap, and draws each source, the combined layer, the share of each satellite, the three colour scales at the same time, a zoom on Saint-Pierre-et-Miquelon downloaded at 0.01 deg and drawn 4 times finer, the clouds in Windy Blue over a map and an animation.
